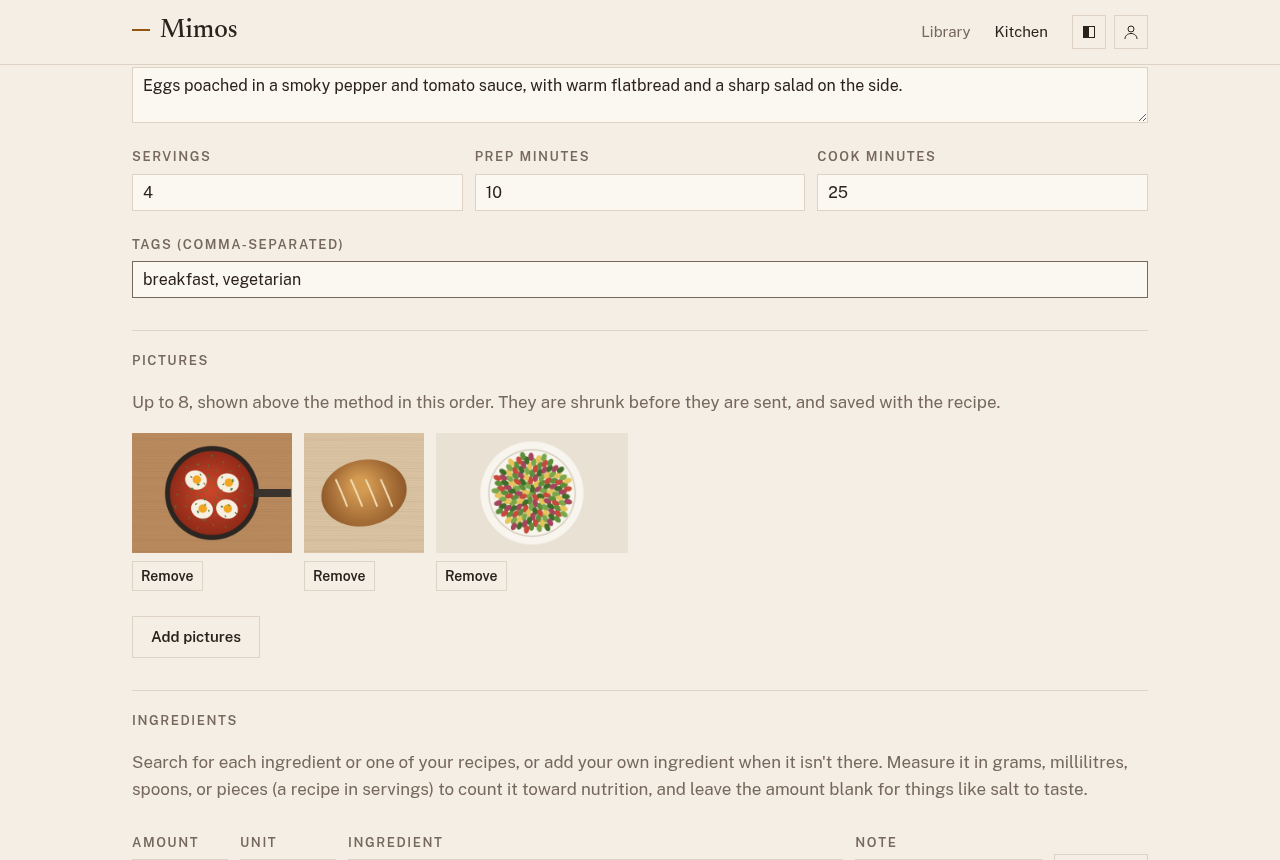
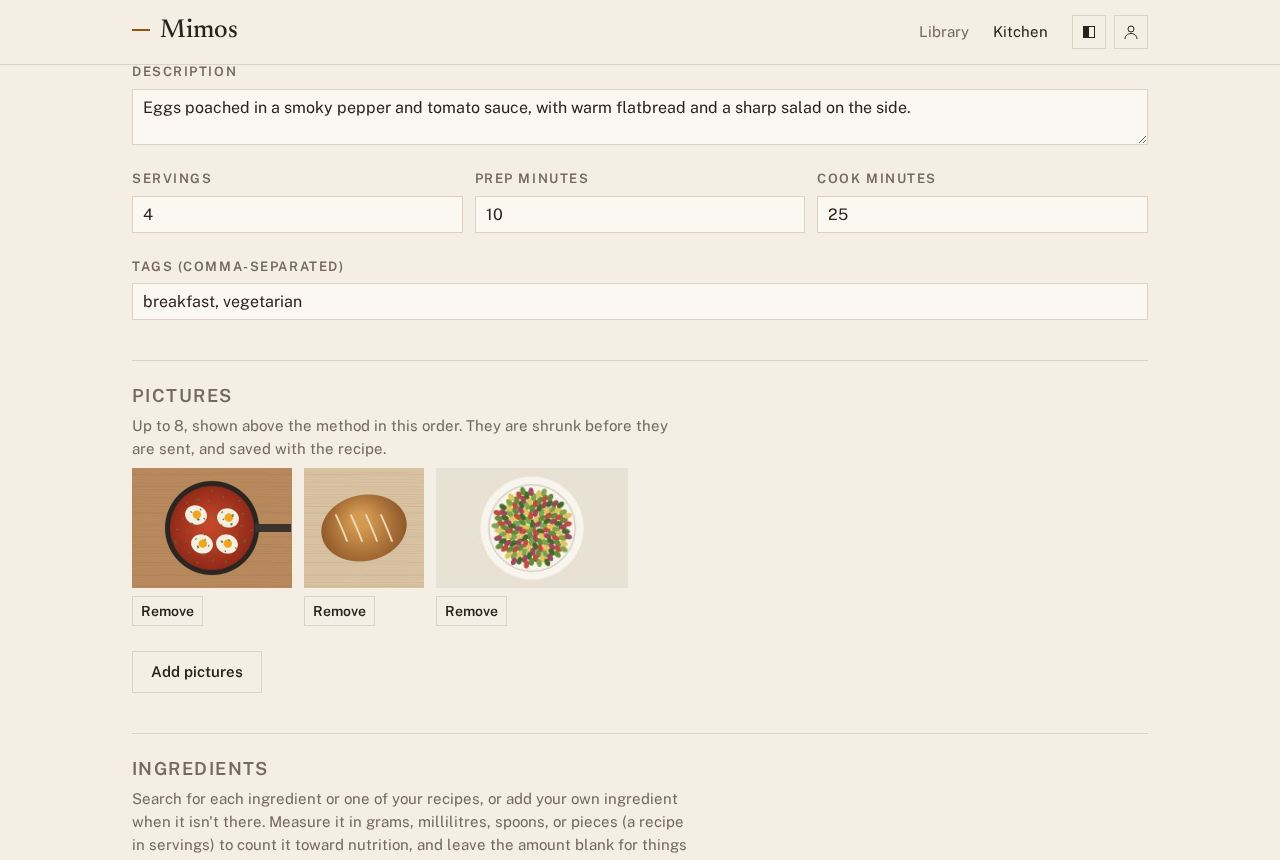
style(web): make recipe form section headings stand out from field labels
Section headings on the recipe form were styled exactly like its field
labels, and their help text was the same muted grey. Headings are now
18px bold caps, and the help under them is smaller on a readable
measure. Scoped to the recipe form; other forms keep .form h2.

Retakes the two guide screenshots of the form.

diff --git a/apps/web/src/app/globals.css b/apps/web/src/app/globals.css
@@ -1020,6 +1020,24 @@ input[type="search"]:focus {
   border-top: 1px solid var(--line);
 }
 
+/* The recipe form's sections: bigger and bolder than its field labels, so a heading never reads as one. */
+.recipe-form h2 {
+  margin-top: 40px;
+  margin-bottom: 6px;
+  padding-top: 24px;
+  font-size: 18px;
+  line-height: 1.25;
+  letter-spacing: 0.08em;
+}
+
+/* A section's help text, under its heading: smaller than the fields, on a readable measure. */
+.recipe-form h2 + .muted {
+  max-width: 62ch;
+  margin: 0 0 8px;
+  font-size: 15px;
+  line-height: 1.55;
+}
+
 .form .actions {
   display: flex;
   gap: 8px;

diff --git a/apps/web/src/components/recipe-form.tsx b/apps/web/src/components/recipe-form.tsx
@@ -206,7 +206,7 @@ export function RecipeForm({
 
   return (
     <form
-      className="card form"
+      className="card form recipe-form"
       onSubmit={(e) => {
         e.preventDefault();
         void save();
